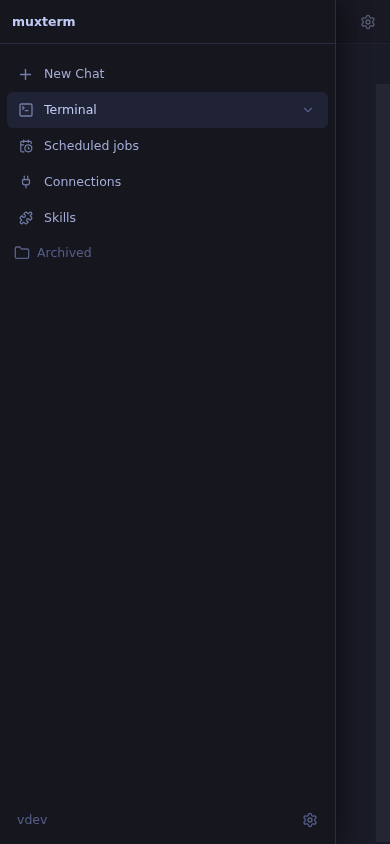
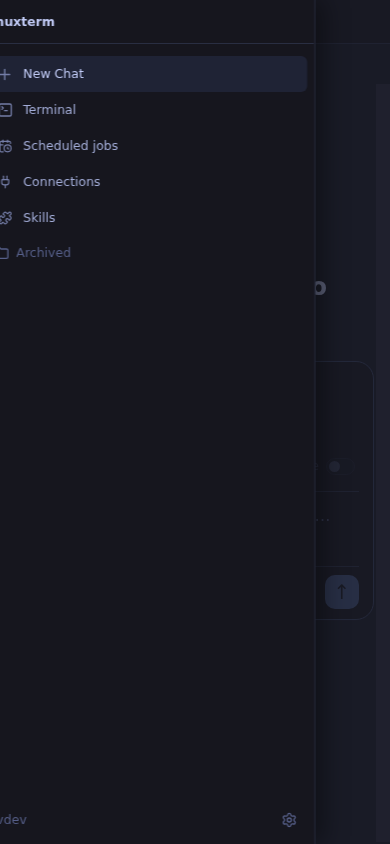
Remove workspace chrome from the single Terminal view

diff --git a/web/src/app.ts b/web/src/app.ts
@@ -4,7 +4,7 @@ import { keyed } from 'lit/directives/keyed.js';
 import { customElement, state } from 'lit/decorators.js';
 import { store } from './state.js';
 import { icon } from './lib/icons.js';
-import { Folder, MonitorX, SquareTerminal, X } from 'lucide';
+import { MonitorX, SquareTerminal, X } from 'lucide';
 import { MuxSocket, buildWsUrl, type ReconnectState } from './ws.js';
 import { terminalRegistry, configureTerminals } from './lib/terminal-registry.js';
 import { previewStore } from './lib/preview-store.js';
@@ -53,7 +53,6 @@ import { WorkspaceController } from './lib/workspace-controller.js';
 import { PaneFocusCoordinator } from './lib/pane-focus-coordinator.js';
 import { mintClientRef } from './lib/client-ref.js';
 import { sdkChats } from './lib/sdk-chats.js';
-import { workspaceLabel } from './lib/workspace-label.js';
 import {
   SessiondType,
   SessiondErrorCode,
@@ -609,19 +608,14 @@ export class MuxApp extends LitElement {
     .terminal-session > mux-dock { width:0; min-width:0; flex:1 1 auto; }
     .terminal-utility { box-sizing:border-box; width:min(360px,42%); min-width:270px; flex:none; display:flex; flex-direction:column; border-left:1px solid var(--chrome-border); background:var(--chrome-body); color:var(--chrome-text-bright); }
     .terminal-utility-tabs { box-sizing:border-box; height:var(--mux-titlebar-height,44px); flex:none; display:flex; align-items:center; gap:4px; padding:0 max(8px,var(--wco-right-inset,0px)) 0 8px; border-bottom:1px solid var(--chrome-border); background:var(--mux-titlebar-bg,var(--chrome-bar)); }
-    .terminal-utility-tablist { display:flex; align-items:center; gap:4px; }
+    .terminal-utility-tabs strong { padding-left:8px; font:650 12px Inter,system-ui,sans-serif; }
     .terminal-utility-tabs button { height:29px; border:0; border-radius:6px; padding:0 9px; background:transparent; color:var(--chrome-text-dim); font:500 11px Inter,system-ui,sans-serif; cursor:pointer; }
-    .terminal-utility-tabs button:hover,.terminal-utility-tabs button[aria-selected="true"] { background:var(--chrome-hover); color:var(--chrome-text-bright); }
+    .terminal-utility-tabs button:hover { background:var(--chrome-hover); color:var(--chrome-text-bright); }
     .terminal-utility-tabs .close-utility { width:28px; padding:0; margin-left:auto; display:grid; place-items:center; }
     .terminal-utility-body { padding:16px; overflow:auto; font:12px/1.5 Inter,system-ui,sans-serif; }
-    .terminal-utility-body h2 { margin:0 0 12px; font-size:13px; font-weight:650; }
-    .terminal-utility-body p { margin:0 0 14px; color:var(--chrome-text-dim); overflow-wrap:anywhere; }
     .terminal-utility-body .utility-pane-row { width:100%; min-height:36px; display:flex; align-items:center; gap:9px; padding:0 9px; border:0; border-radius:6px; background:transparent; color:var(--chrome-text-bright); text-align:left; font:inherit; cursor:pointer; }
     .terminal-utility-body .utility-pane-row:hover,.terminal-utility-body .utility-pane-row[aria-current="true"] { background:var(--chrome-hover); }
     .terminal-utility-body .utility-pane-row span { flex:1; overflow:hidden; text-overflow:ellipsis; white-space:nowrap; }
-    .terminal-utility-body .utility-detail { display:flex; align-items:center; gap:9px; min-height:36px; border-bottom:1px solid var(--chrome-border); }
-    .terminal-utility-body .utility-detail span { color:var(--chrome-text-dim); }
-    .terminal-utility-body .utility-detail strong { min-width:0; overflow:hidden; text-overflow:ellipsis; white-space:nowrap; font-weight:550; }
     @media(max-width:767.98px) { .terminal-utility { position:absolute; z-index:6; top:0; right:0; bottom:0; width:min(88%,360px); min-width:0; box-shadow:-10px 0 25px #0005; } }
 
     /* Keep the 4px resize target, but continue the title bar across its top.
@@ -821,7 +815,6 @@ export class MuxApp extends LitElement {
 
   @state() private _sdkChatId: string | null = null;
   @state() private _terminalUtilityOpen = false;
-  @state() private _terminalUtilityTab: 'panes' | 'workspace' = 'panes';
   @state() private _connectionSelection = 'github';
   @state() private _newChatHarness: 'codex' | 'claude' | 'amplifier' = 'codex';
   @state() private _newChatFolder = '';
@@ -1633,7 +1626,6 @@ export class MuxApp extends LitElement {
     const chatTitle = this._sdkChatId
       ? UTILITY_TITLES.get(this._sdkChatId) || sdkChats.chats.find(chat => chat.id === this._sdkChatId)?.title || 'Chat'
       : '';
-    const attachedWorkspace = store.workspaces.find(workspace => workspace.workspaceId === store.attached);
 
     return html`
       <div class="window-chrome ${isWide && (this._sdkChatId === 'new' || selectedSDKChat || (!this._sdkChatId && panes.length > 0)) ? 'integrated' : ''}">
@@ -1710,7 +1702,6 @@ export class MuxApp extends LitElement {
                   .panes="${panes}"
                   .activePaneId="${store.activePaneId}"
                   .workspaceKey="${store.attached ?? ''}"
-                  .workspaceName="${attachedWorkspace ? workspaceLabel(attachedWorkspace) : 'Workspace'}"
                   .terminalUtilityOpen="${this._terminalUtilityOpen && !this._sdkChatId}"
                   .requestedPaneId="${this._requestedPaneId}"
                   .layout="${store.layout}"
@@ -1723,7 +1714,17 @@ export class MuxApp extends LitElement {
                   @terminal-utility-toggle="${() => { this._terminalUtilityOpen = !this._terminalUtilityOpen; }}"
                   @layout-save="${this._onLayoutSave}"
                 ></mux-dock>
-                ${this._terminalUtilityOpen && !this._sdkChatId ? html`<aside class="terminal-utility" aria-label="Terminal utility pane"><div class="terminal-utility-tabs"><div class="terminal-utility-tablist" role="tablist" aria-label="Terminal tools"><button role="tab" aria-selected="${this._terminalUtilityTab === 'panes'}" @click="${() => { this._terminalUtilityTab = 'panes'; }}">Panes</button><button role="tab" aria-selected="${this._terminalUtilityTab === 'workspace'}" @click="${() => { this._terminalUtilityTab = 'workspace'; }}">Workspace</button></div><button class="close-utility" aria-label="Close terminal utility pane" @click="${() => { this._terminalUtilityOpen = false; }}">${icon(X,{size:16})}</button></div><div class="terminal-utility-body" role="tabpanel">${this._terminalUtilityTab === 'panes' ? html`<h2>Panes</h2>${panes.map(pane => html`<button class="utility-pane-row" aria-current="${store.activePaneId === pane.paneId}" @click="${() => this._onActivePane(new CustomEvent('pane-select',{detail:{paneId:pane.paneId}}))}">${icon(SquareTerminal,{size:16})}<span>${pane.title || `Pane ${pane.paneId}`}</span></button>`)}` : html`<h2>Workspace</h2><div class="utility-detail"><span>Name</span><strong>${attachedWorkspace ? workspaceLabel(attachedWorkspace) : 'Workspace'}</strong></div><div class="utility-detail"><span>Folder</span>${icon(Folder,{size:15})}<strong title="${attachedWorkspace?.projectPath || ''}">${attachedWorkspace?.projectPath || 'No project folder'}</strong></div><div class="utility-detail"><span>Panes</span><strong>${panes.length}</strong></div>`}</div></aside>` : ''}
+                ${this._terminalUtilityOpen && !this._sdkChatId ? html`
+                  <aside class="terminal-utility" aria-label="Panes">
+                    <div class="terminal-utility-tabs">
+                      <strong>Panes</strong>
+                      <button class="close-utility" aria-label="Close terminal utility pane" @click="${() => { this._terminalUtilityOpen = false; }}">${icon(X,{size:16})}</button>
+                    </div>
+                    <div class="terminal-utility-body">
+                      ${panes.map(pane => html`<button class="utility-pane-row" aria-current="${store.activePaneId === pane.paneId}" @click="${() => this._onActivePane(new CustomEvent('pane-select',{detail:{paneId:pane.paneId}}))}">${icon(SquareTerminal,{size:16})}<span>${pane.title || `Pane ${pane.paneId}`}</span></button>`)}
+                    </div>
+                  </aside>
+                ` : ''}
               </div>
               `}
           ${this._sdkChatId ? this._sdkChatId === 'new' ? keyed(this._newChatKey, html`
@@ -1742,7 +1743,7 @@ export class MuxApp extends LitElement {
             <div
               class="drawer"
               popover="auto"
-              aria-label="Workspaces"
+              aria-label="Navigation"
               @toggle="${this._onDrawerPopoverToggle}"
             >
               <mux-sidebar

diff --git a/web/src/components/mux-sidebar.ts b/web/src/components/mux-sidebar.ts
@@ -1086,13 +1086,7 @@ export class MuxSidebar extends LitElement {
       color: color-mix(in srgb, var(--chrome-text-dim) 72%, var(--chrome-text-bright));
       font-size: 16px;
     }
-    .terminal-nav { position:relative; flex:0 0 36px; }
-    .terminal-nav > .new-chat-action { width:calc(100% - 14px); }
-    .terminal-picker { position:absolute; top:4px; right:13px; width:28px; height:28px; display:grid; place-items:center; border:0; border-radius:5px; background:transparent; color:var(--chrome-text-dim); cursor:pointer; }
-    .terminal-picker:hover,.terminal-picker:focus-visible { background:var(--chrome-hover); color:var(--chrome-text-bright); }
-    .terminal-menu { position:absolute; z-index:30; top:36px; left:7px; right:7px; max-height:min(320px,50vh); overflow:auto; padding:5px; border:1px solid var(--chrome-border); border-radius:8px; background:var(--chrome-bar); box-shadow:0 12px 28px #0008; }
-    .terminal-menu button { display:block; width:100%; min-height:32px; padding:5px 8px; overflow:hidden; border:0; border-radius:5px; background:transparent; color:var(--chrome-text-bright); text-align:left; text-overflow:ellipsis; white-space:nowrap; font:500 12px Inter,system-ui,sans-serif; cursor:pointer; }
-    .terminal-menu button:hover,.terminal-menu button[aria-current="true"] { background:var(--chrome-hover); }
+    .terminal-nav { flex:0 0 36px; }
 
     .terminal-heading {
       margin-top: 13px;
@@ -1363,13 +1357,7 @@ export class MuxSidebar extends LitElement {
   @property({ type: Boolean }) showLauncher = true;
 
   @state() private _version = 0;
-  @state() private _terminalMenuOpen = false;
   @state() private _renaming: string | null = null;
-
-  private _onOutsideTerminalClick = (event: PointerEvent): void => {
-    const nav = this.renderRoot.querySelector('.terminal-nav');
-    if (this._terminalMenuOpen && nav && !event.composedPath().includes(nav)) this._terminalMenuOpen = false;
-  };
 
   /**
    * Tile width in columns, derived from the measured card. 0 = not measured
@@ -1449,7 +1437,6 @@ export class MuxSidebar extends LitElement {
   override connectedCallback(): void {
     super.connectedCallback();
     window.addEventListener('muxterm-update-checked', this._onUpdateChecked);
-    document.addEventListener('pointerdown', this._onOutsideTerminalClick);
 
     // Subscribe to store changes and trigger re-render by bumping _version.
     this._unsub = store.subscribe(() => {
@@ -1490,7 +1477,6 @@ export class MuxSidebar extends LitElement {
 
   override disconnectedCallback(): void {
     window.removeEventListener('muxterm-update-checked', this._onUpdateChecked);
-    document.removeEventListener('pointerdown', this._onOutsideTerminalClick);
     super.disconnectedCallback();
     this._unsub?.();
     this._unsub = null;
@@ -2516,11 +2502,9 @@ export class MuxSidebar extends LitElement {
         <span class="new-chat-action-mark">${icon(Plus, { size: 17 })}</span><span>New Chat</span>
       </button>
       <div class="terminal-nav">
-        <button class="new-chat-action ${this.terminalActive ? 'active' : ''}" title="Open terminal" aria-current="${this.terminalActive ? 'page' : 'false'}" @click="${() => { this._terminalMenuOpen = false; this.dispatchEvent(new CustomEvent('terminal-open', { bubbles: true, composed: true })); }}">
+        <button class="new-chat-action ${this.terminalActive ? 'active' : ''}" title="Open terminal" aria-current="${this.terminalActive ? 'page' : 'false'}" @click="${() => this.dispatchEvent(new CustomEvent('terminal-open', { bubbles: true, composed: true }))}">
           <span class="new-chat-action-mark">${icon(SquareTerminal, { size: 16 })}</span><span>Terminal</span>
         </button>
-        ${store.workspaces.length > 1 ? html`<button class="terminal-picker" aria-label="Choose terminal workspace" aria-expanded=${this._terminalMenuOpen} @click=${() => { this._terminalMenuOpen = !this._terminalMenuOpen; }}>${icon(ChevronDown,{size:14})}</button>` : ''}
-        ${this._terminalMenuOpen ? html`<div class="terminal-menu" role="menu" aria-label="Terminal workspaces" @keydown=${(event:KeyboardEvent) => { if (event.key === 'Escape') this._terminalMenuOpen = false; }}>${store.workspaces.map(workspace => html`<button role="menuitem" aria-current=${workspace.workspaceId === store.attached} title=${workspaceLabel(workspace)} @click=${() => { this._terminalMenuOpen = false; this.dispatchEvent(new CustomEvent('workspace-switch', { detail:{workspaceId:workspace.workspaceId}, bubbles:true, composed:true })); }}>${workspaceLabel(workspace)}</button>`)}</div>` : ''}
       </div>
       <button class="new-chat-action ${this.jobsActive ? 'active' : ''}" title="Scheduled jobs" aria-current="${this.jobsActive ? 'page' : 'false'}" @click="${() => this.dispatchEvent(new CustomEvent('jobs-open', { bubbles: true, composed: true }))}">
         <span class="new-chat-action-mark">${icon(CalendarClock, { size: 14 })}</span><span>Scheduled jobs</span>

diff --git a/web/src/components/mux-dock.ts b/web/src/components/mux-dock.ts
@@ -300,21 +300,6 @@ class HeaderButton {
   dispose(): void { this.element.remove(); }
 }
 
-class WorkspacePrefix {
-  readonly element: HTMLElement;
-
-  constructor(name: string) {
-    const label = document.createElement('div');
-    label.className = 'mux-workspace-prefix';
-    label.innerHTML = '<span class="mux-workspace-prefix-label"></span><span aria-hidden="true">›</span>';
-    label.querySelector<HTMLElement>('.mux-workspace-prefix-label')!.textContent = name;
-    this.element = label;
-  }
-
-  init(): void { /* label is ready when dockview inserts it */ }
-  dispose(): void { this.element.remove(); }
-}
-
 // ─────────────────────────────────────────────────────────────────────────────
 // MuxDock
 // ─────────────────────────────────────────────────────────────────────────────
@@ -332,7 +317,6 @@ export class MuxDock extends LitElement {
   @property({ attribute: false }) panes: SessiondPaneInfo[] = [];
   @property({ attribute: false }) activePaneId = -1;
   @property({ attribute: false }) workspaceKey = '';
-  @property({ attribute: false }) workspaceName = '';
   @property({ type: Boolean, reflect: true }) terminalUtilityOpen = false;
   /**
    * "After you restore this workspace, activate THIS pane" -- the home view's
@@ -944,21 +928,6 @@ export class MuxDock extends LitElement {
         mux-dock .dv-tabs-container > .dv-tab:first-child {
           padding-inline-start: 8px !important;
         }
-        mux-dock .mux-workspace-prefix {
-          box-sizing: border-box;
-          height: var(--mux-titlebar-height, 44px);
-          max-width: 220px;
-          min-width: 95px;
-          display: flex;
-          align-items: center;
-          gap: 8px;
-          padding: 0 14px 0 16px;
-          border-right: 1px solid var(--chrome-border);
-          color: var(--chrome-text-dim);
-          font: 500 12px Inter, system-ui, sans-serif;
-          white-space: nowrap;
-        }
-        mux-dock .mux-workspace-prefix-label { overflow:hidden; text-overflow:ellipsis; }
         mux-dock:not([workspace-actions-visible]) .mux-workspace-actions {
           visibility: hidden;
           pointer-events: none;
@@ -1249,7 +1218,6 @@ export class MuxDock extends LitElement {
           (target) => this._emitPaneCloseTarget(target),
         );
       },
-      createPrefixHeaderActionComponent: () => new WorkspacePrefix(this.workspaceName || 'Workspace'),
       // dockview header DOM order is: [tabs] [left-actions] [void] [right-actions].
       // The "left" slot therefore renders immediately after the tabs (before
       // the grow-to-fill void), and the "right" slot renders far right.
@@ -1367,9 +1335,6 @@ export class MuxDock extends LitElement {
   override updated(changed: Map<string, unknown>): void {
     super.updated(changed);
     if (changed.has('terminalUtilityOpen')) this.querySelector('.mux-utility-toggle')?.setAttribute('aria-pressed', String(this.terminalUtilityOpen));
-    if (changed.has('workspaceName')) {
-      for (const label of this.querySelectorAll<HTMLElement>('.mux-workspace-prefix-label')) label.textContent = this.workspaceName || 'Workspace';
-    }
     if (changed.has('workspaceActionsVisible')) this._syncWorkspaceActionVisibility();
     if (!this._dv) return;
 

diff --git a/web/src/components/mux-pane-picker.ts b/web/src/components/mux-pane-picker.ts
@@ -28,7 +28,6 @@ import { subtleScrollbars } from '../lib/subtle-scrollbars.js';
 import { LitElement, html, css } from 'lit';
 import { customElement, state } from 'lit/decorators.js';
 import { store } from '../state.js';
-import { workspaceLabel } from '../lib/workspace-label.js';
 import { icon } from '../lib/icons.js';
 import { Plus, X } from 'lucide';
 
@@ -116,17 +115,9 @@ export class MuxPanePicker extends LitElement {
       background: var(--chrome-hover);
     }
 
-    .ws-name,
-    .sep,
     .caret {
       flex: none;
       color: var(--chrome-text-dim);
-    }
-
-    .ws-name {
-      max-width: 40%;
-      overflow: hidden;
-      text-overflow: ellipsis;
     }
 
     .pane-name {
@@ -403,13 +394,9 @@ export class MuxPanePicker extends LitElement {
     // dependency so store subscription bumps trigger re-renders.
     void this._version;
 
-    const { panes, activePaneId, workspaces, attached } = store;
+    const { panes, activePaneId, attached } = store;
     const validPanes = panes.filter((p) => p.paneId >= 0);
     const activePane = validPanes.find((p) => p.paneId === activePaneId);
-
-    // Workspace label: prefer named workspace, fall back to attached id.
-    const ws = workspaces.find((w) => w.workspaceId === attached);
-    const wsName = ws ? workspaceLabel(ws) : (attached ?? '');
 
     // Active pane display name.
     const activePaneName =
@@ -422,19 +409,17 @@ export class MuxPanePicker extends LitElement {
         class="breadcrumb"
         type="button"
         popovertarget="pane-sheet"
-        aria-label="Panes in ${wsName}"
+        aria-label="Choose pane"
       >
-        <span class="ws-name">${wsName}</span>
-        <span class="sep">›</span>
         ${activeBell ? html`<span class="bell-dot">${BELL_DOT}</span>` : ''}
         <span class="pane-name">${activePaneName}</span>
         <span class="caret">▾</span>
       </button>
 
-      <div id="pane-sheet" class="sheet" popover="auto" aria-label="Panes in ${wsName}">
+      <div id="pane-sheet" class="sheet" popover="auto" aria-label="Panes">
         <div class="sheet-head">
           <div class="grab"></div>
-          <div class="sheet-title">Panes · ${wsName}</div>
+          <div class="sheet-title">Panes</div>
           <button class="rowbtn" type="button" @click="${this._createPane}">
             ${icon(Plus, { size: 18 })}<span>New pane</span>
           </button>

diff --git a/web/src/components/title-bar.ts b/web/src/components/title-bar.ts
@@ -260,10 +260,10 @@ export class MuxTitleBar extends LitElement {
         : html`<button
             class="drawer-btn"
             type="button"
-            title="Workspaces"
+            title="Navigation"
             aria-label="${needs
-              ? 'Sessions need input. Open workspaces.'
-              : 'Open workspaces'}"
+              ? 'Sessions need input. Open navigation.'
+              : 'Open navigation'}"
             aria-expanded="${this.drawerOpen ? 'true' : 'false'}"
             @click="${this._toggleDrawer}"
           >
